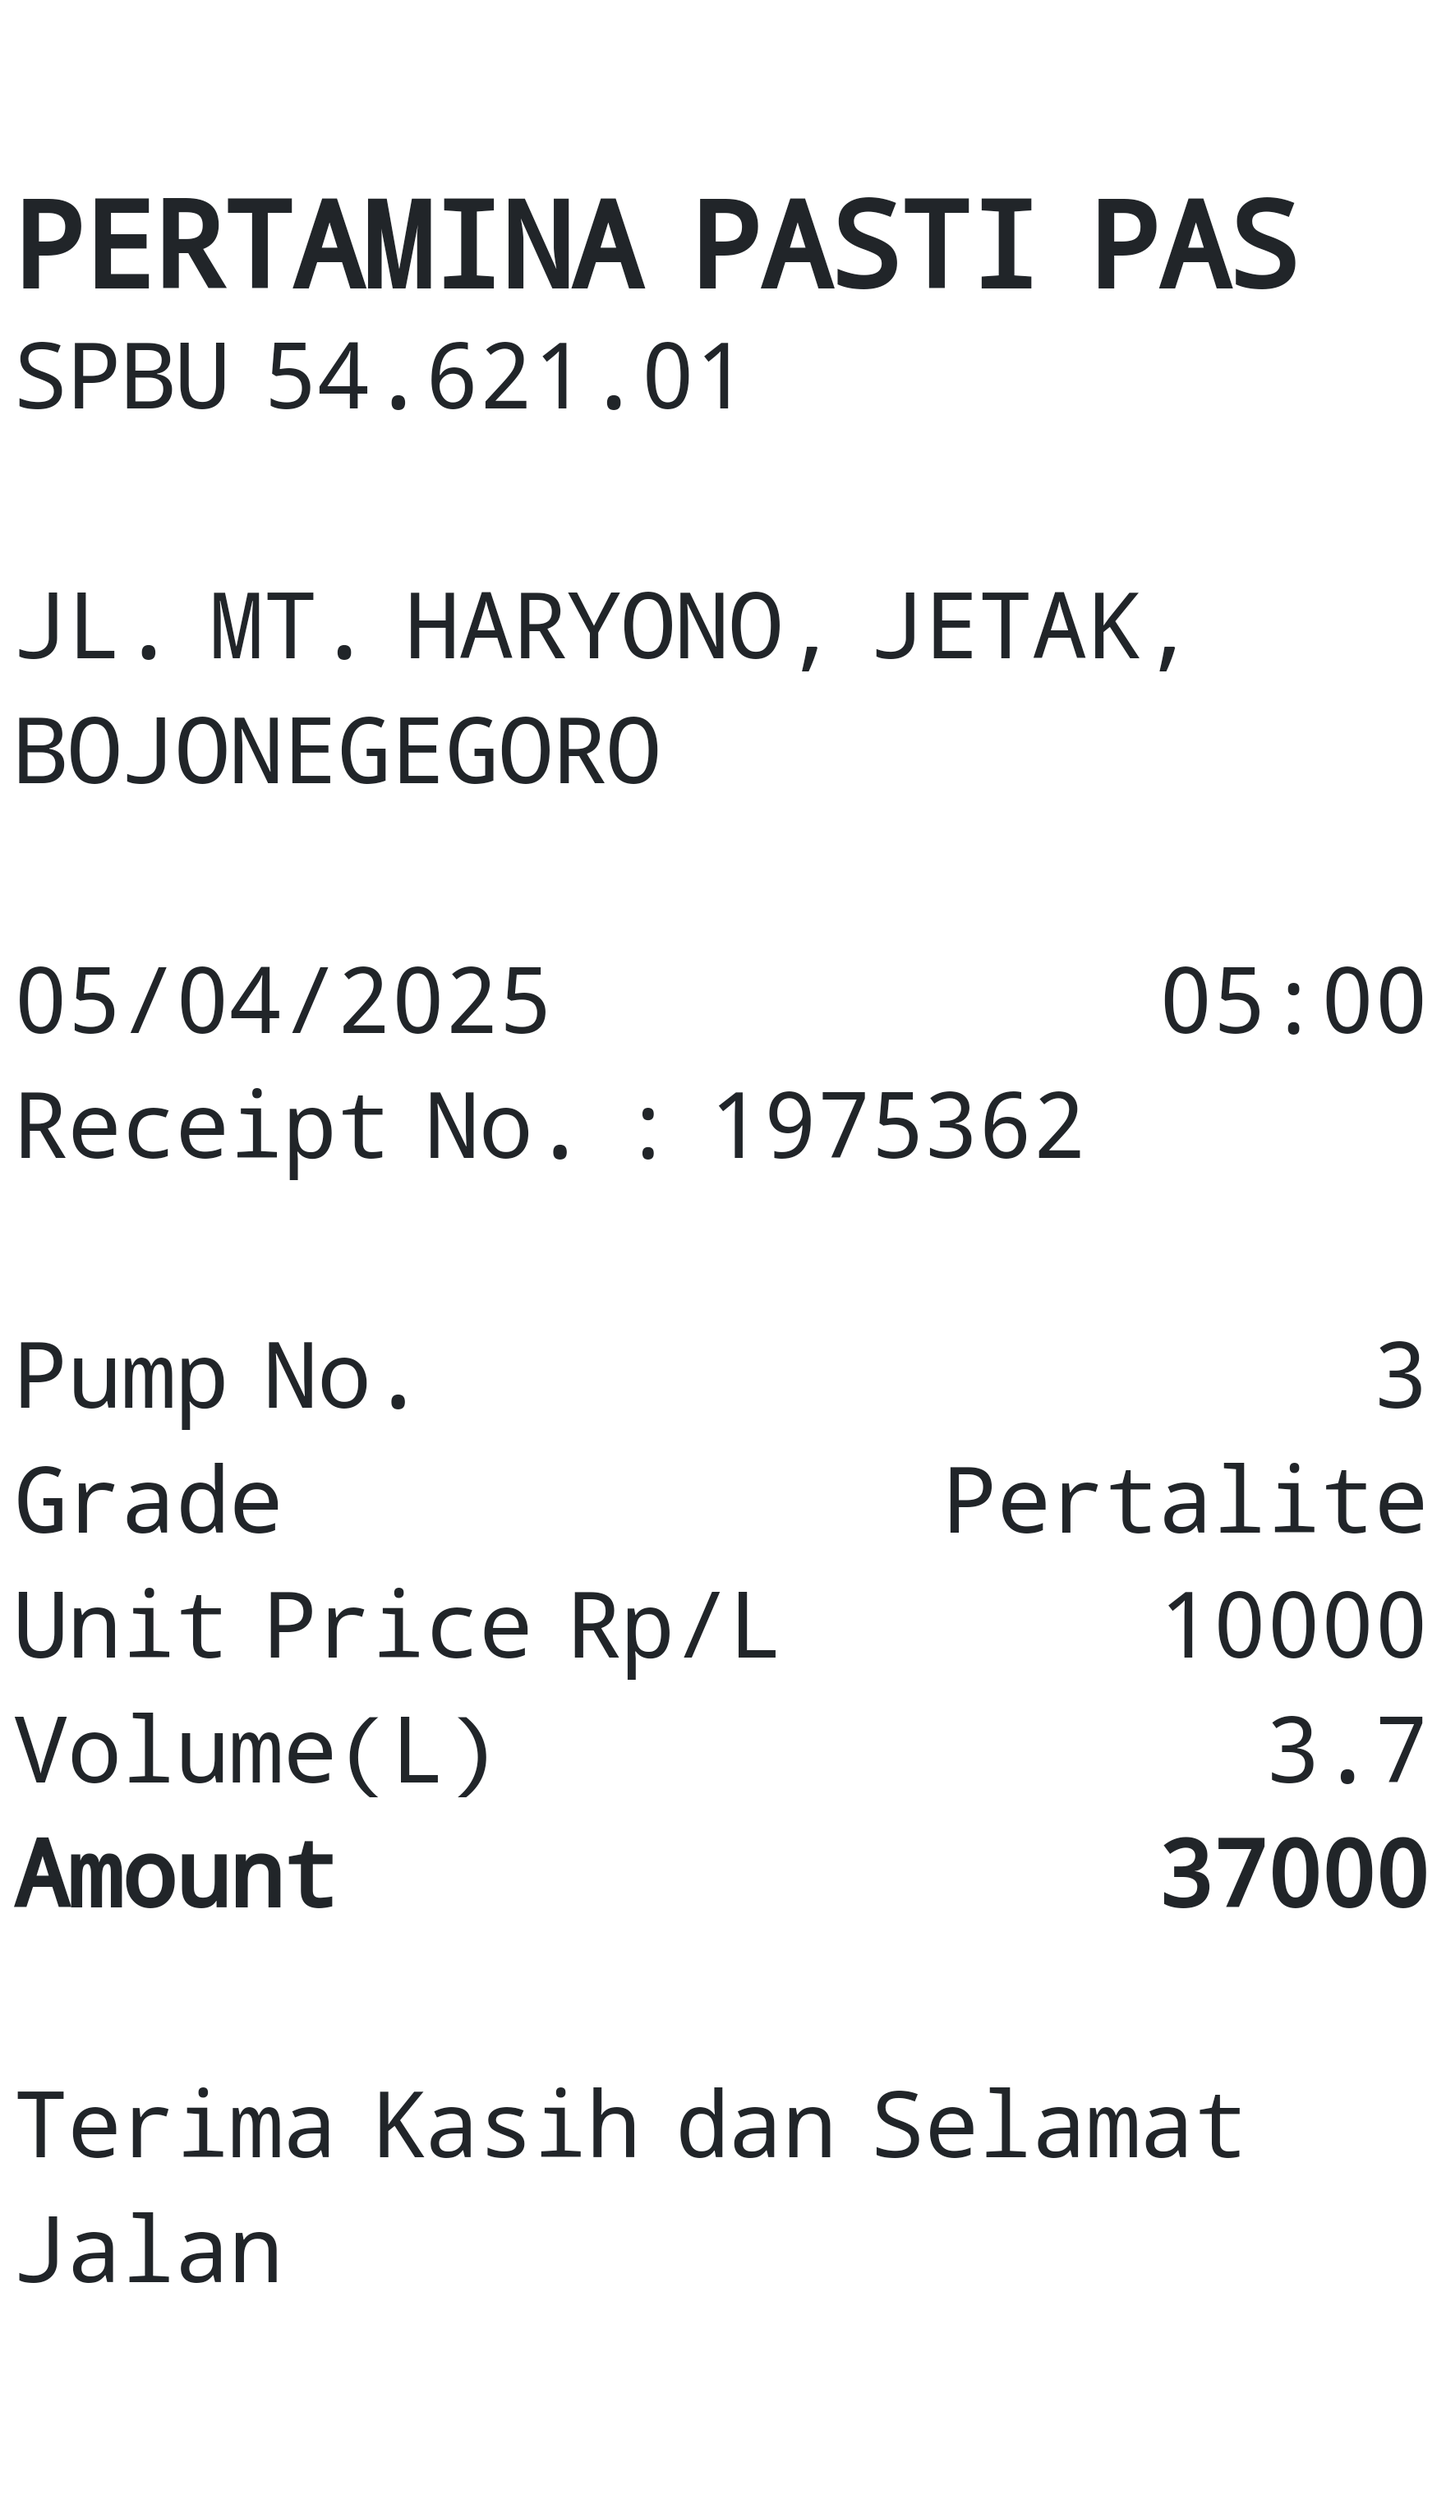
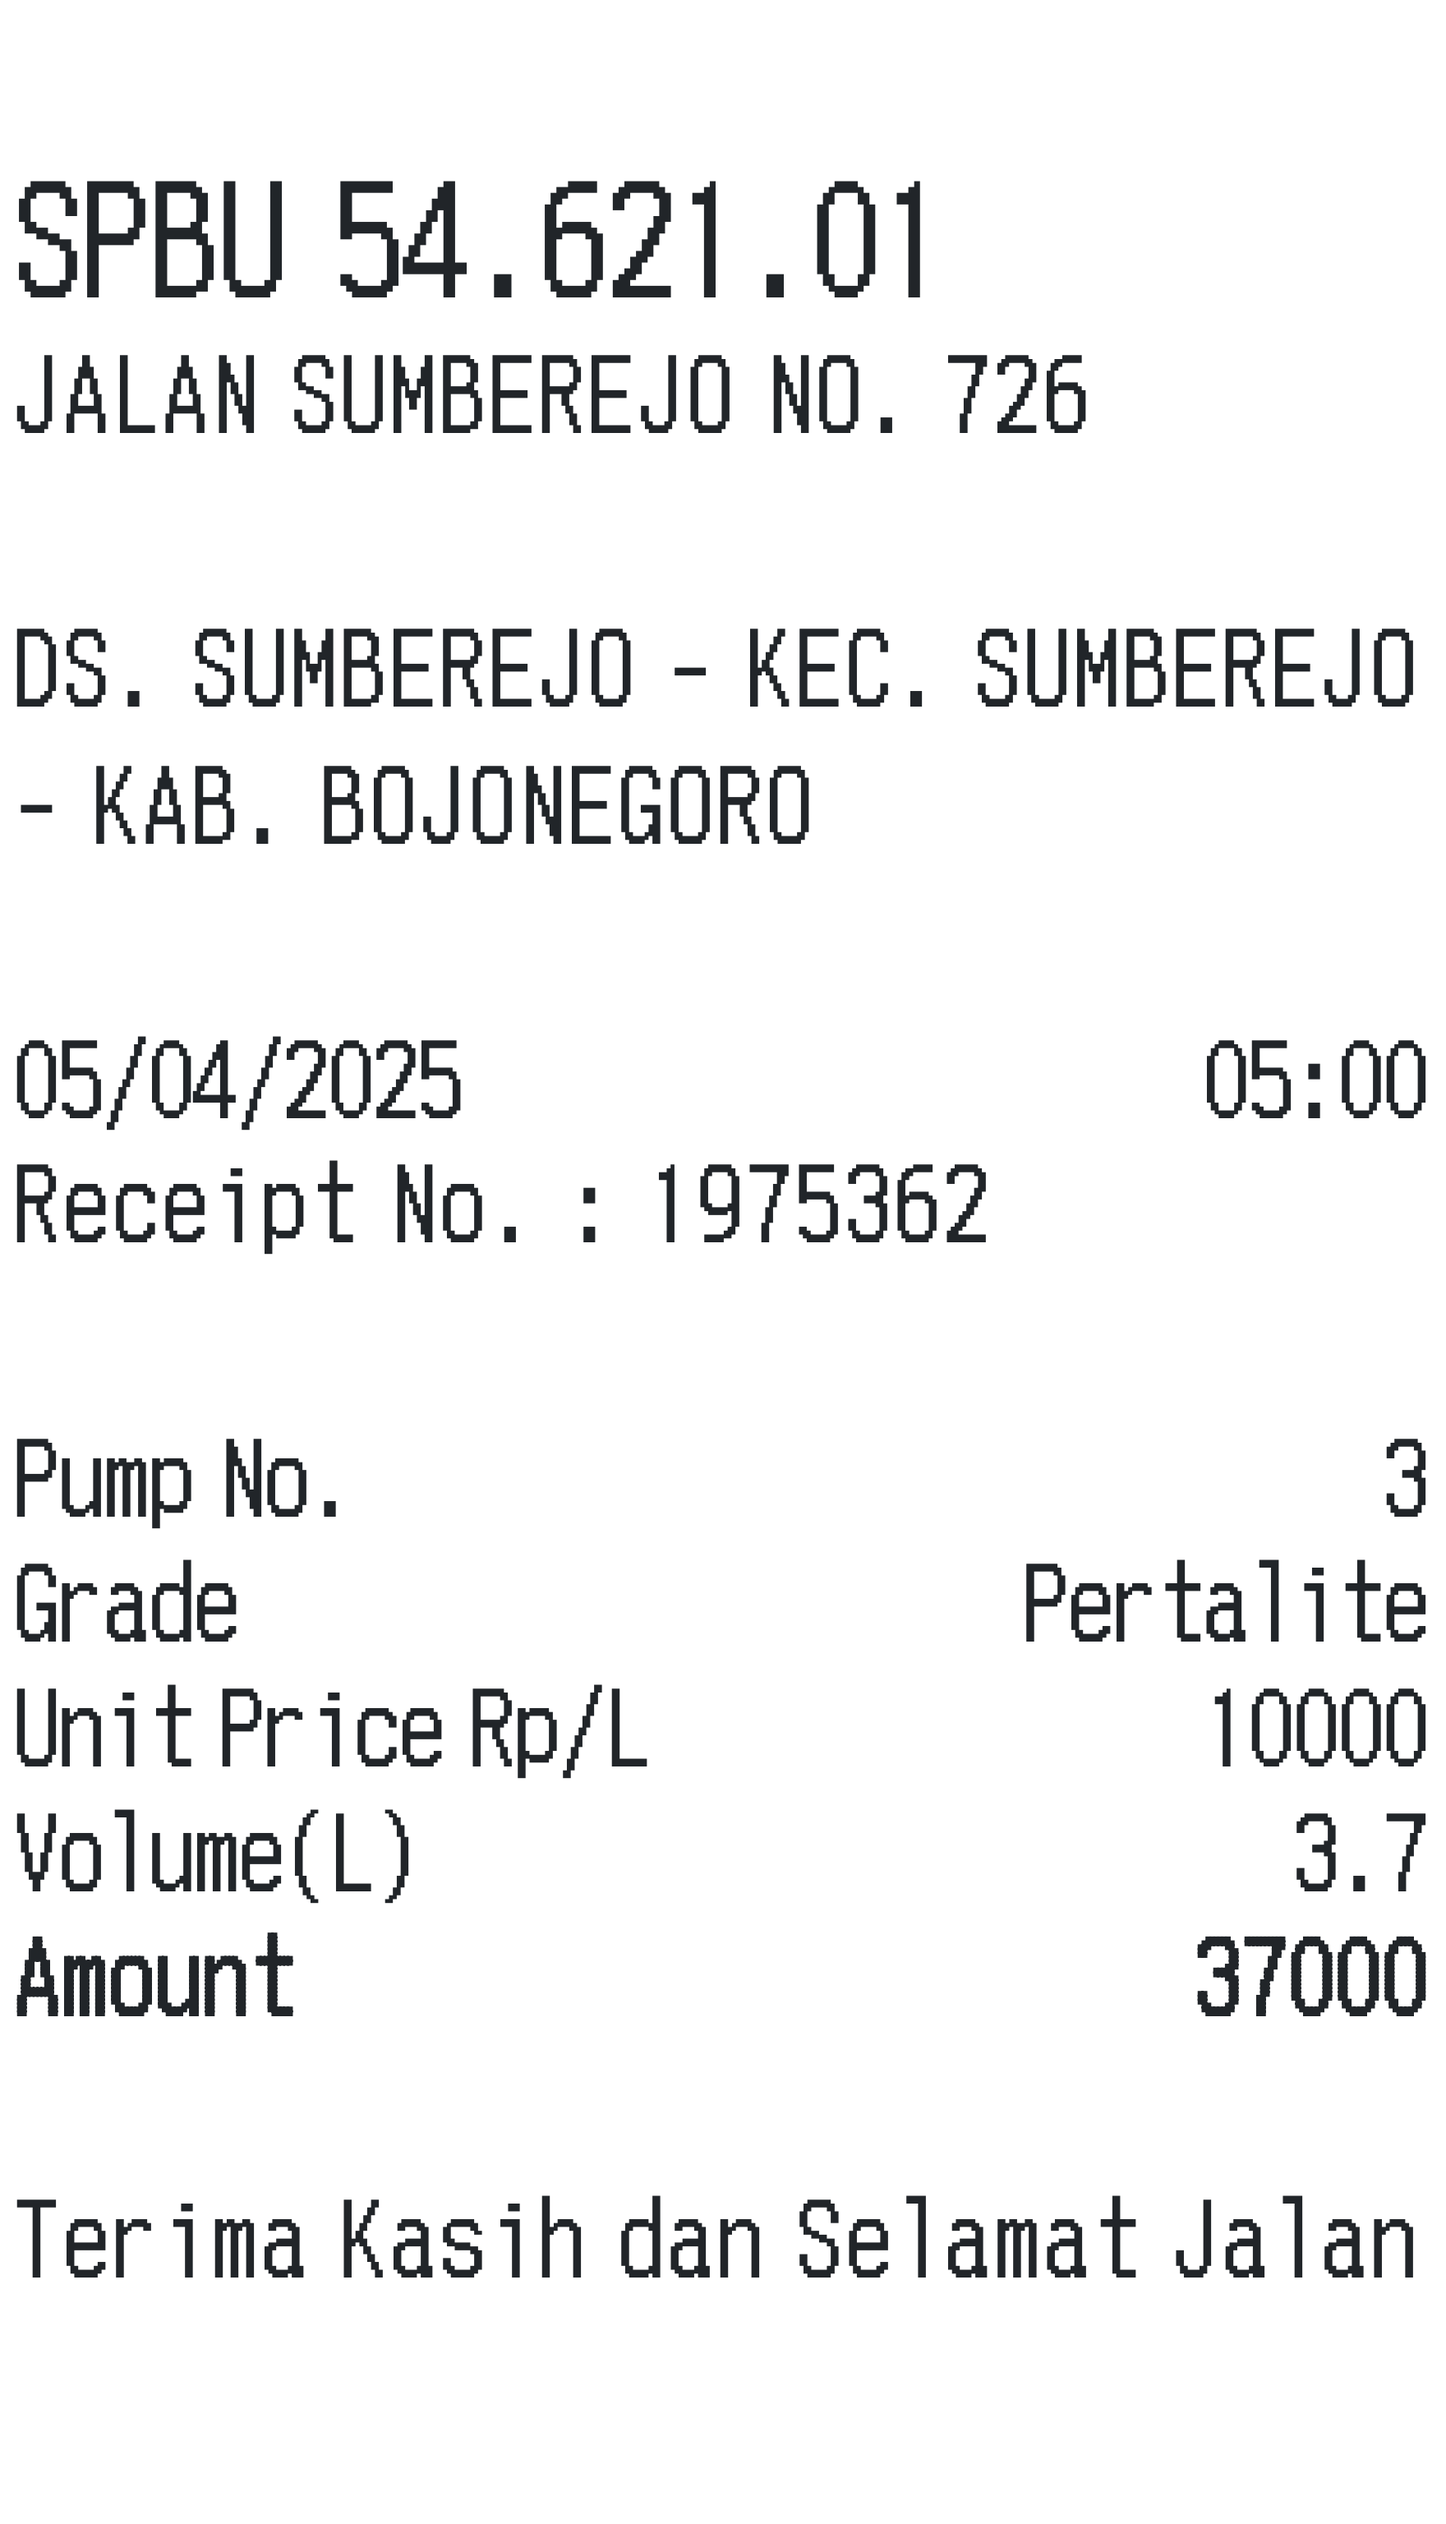
u

diff --git a/template8.html b/template8.html
@@ -1,0 +1,277 @@
+<!DOCTYPE html>
+<html lang="id">
+<head>
+  <meta charset="UTF-8" />
+  <meta name="viewport" content="width=device-width, initial-scale=1.0" />
+  <title>Fuel Receipt Generator - Minimal</title>
+  <!-- Bootstrap CSS -->
+  <link href="https://cdn.jsdelivr.net/npm/bootstrap@5.3.0/dist/css/bootstrap.min.css" rel="stylesheet" />
+  <!-- Inline CSS -->
+  <style>
+/* css/style.css */
+body {
+  background-color: #f8f9fa;
+}
+
+.card {
+  border: none;
+  box-shadow: 0 0 5px rgba(0,0,0,0.1);
+}
+
+.receipt-container {
+  margin: 0 auto;
+  padding: 2px;
+  background: #fff;
+  line-height: 19px;
+}
+
+.receipt-header {
+  text-align: left;
+}
+
+.receipt-footer {
+  text-align: left;
+}
+
+.separator {
+  border-top: 2.5px dashed black;
+  margin: 10px 0;
+}
+
+.line {
+  display: flex;
+  justify-content: space-between;
+}
+
+.input-label {
+  font-weight: 600;
+  font-size: 10px;
+}
+
+
+@font-face {
+  font-family: 'TelidonHv';
+  src: url('TelidonHv.woff') format('woff');
+}
+
+
+
+#receiptPreview {
+  width: 58mm;
+  font-family: 'TelidonHv', Sans-Serif;
+  font-weight: normal;
+  word-spacing: -3px;
+  letter-spacing: -0.2px;
+  margin-bottom: 1px;
+  padding-bottom:2em;
+  padding-top:2em;
+}
+
+#receiptPreview h1 {
+  font-size: 21px;
+  font-weight: bold;
+  margin-bottom: 1px;
+}
+
+#receiptPreview h2 {
+  font-size: 18px;
+  font-weight: bold;
+  margin-bottom: 1px;
+}
+
+#receiptPreview h3 {
+  font-size: 16px;
+  font-weight: bold;
+  margin-bottom: 1px;
+}
+
+#receiptPreview h4 {
+  font-size: 14px;
+  margin-bottom: 1px;
+}
+
+#receiptPreview h6 {
+  font-size: 12px;
+}
+  </style>
+</head>
+<body>
+  <div class="container py-3" x-data="receiptApp()">
+    <h4 class="text-center mb-3">Generator Struk Pom Bensin</h4>
+    <div class="row">
+      <!-- ==================== FORM INPUT ==================== -->
+      <div class="col-md-6">
+        <div class="card p-2 mb-3">
+          <h6 class="mb-2">Input Data</h6>
+          <!-- Nomor Outlet -->
+          
+          <div class="row">
+<div class="col-6 mb-2">
+              <label class="input-label">Nama SPBU</label>
+              <input type="text" class="form-control form-control-sm" x-model="namaSPBU" placeholder="Nama SPBU"
+              />
+            </div>
+              <div class="col-3 mb-2">
+              <label class="input-label">Nomor Outlet</label>
+              <input type="text" class="form-control form-control-sm" x-model="nomorOutlet" placeholder="Nomor Outlet" />
+            </div>
+            <div class="col-3 mb-2">
+              <label class="input-label">No. Transaksi</label>
+              <input type="number" class="form-control form-control-sm" x-model="noTransaksi" placeholder="No. Transaksi" />
+            </div>
+          </div>
+          
+          <!-- Alamat -->
+          <div class="row">
+            <div class="col-12 mb-2">
+              <label class="input-label">Alamat</label>
+              <input type="text" class="form-control form-control-sm" x-model="alamat" placeholder="Alamat" />
+            </div>
+          </div>
+          <!-- No. Transaksi -->
+
+          <!-- Waktu & Pulau/Pompa -->
+          <div class="row">
+            <div class="col-4 mb-2">
+              <label class="input-label">Waktu</label>
+              <input type="datetime-local" class="form-control form-control-sm" x-model="waktu" />
+            </div>
+            <div class="col-4 mb-2">
+              <label class="input-label">Pump</label>
+              <input type="number" class="form-control form-control-sm" x-model="pompa" placeholder="Pulau/Pompa" />
+            </div>
+            <div class="col-4 mb-2">
+              <label class="input-label">Volume (Liter)</label>
+              <input type="number" class="form-control form-control-sm" x-model.number="volume" min="0" placeholder="Volume" />
+            </div>
+          </div>
+         
+          
+          <!-- Footer -->
+          <div class="row">
+            <div class="col-12 mb-2">
+              <label class="input-label">Footer</label>
+              <input type="text" class="form-control form-control-sm" x-model="footer" placeholder="Footer" />
+            </div>
+          </div>
+          <!-- Load Config -->
+          <div class="row">
+            <div class="col-12 mb-2">
+              <label class="input-label">Load Config</label>
+              <input type="file" class="form-control form-control-sm" accept=".json" @change="uploadTemplate($event)" />
+            </div>
+          </div>
+          <!-- Tombol Save as Image & Save Template -->
+          <div class="row my-3">
+            <div class="col-6 mb-2">
+              <button class="btn btn-success btn-sm w-100"
+              
+              @click="saveAsImage()">Save as Image</button>
+            </div>
+            <div class="col-6 mb-2">
+              <button class="btn btn-primary btn-sm w-100"
+              
+              @click="downloadTemplate()">Save Template</button>
+            </div>
+          </div>
+        </div>
+      </div>
+      
+      <!-- ==================== PREVIEW STRUK (tetap seperti preview.pho) ==================== -->
+      <div class="col-md-6">
+        <!-- Start Preview Section -->
+        <h6 class="text-center mb-2">Preview Struk</h6>
+        
+        
+        
+        
+        <div class="receipt-container" id="receiptPreview">
+          <!-- Header Struk -->
+          <h1>
+            PERTAMINA PASTI PAS
+          </h1>
+          
+            <span class="ml-4">SPBU </span><span x-text="nomorOutlet ? nomorOutlet : 'Nomor Outlet'"></span>
+          
+          <br><br>
+          <span class="receipt-title" x-text="alamat || 'Alamat SPBU'"></span>
+
+          <!-- Informasi Transaksi -->
+          
+  
+          <div class="info-pembelian">
+            
+            <br>
+            
+<!-- Tampilan tanggal dan waktu -->
+  <div style="display: flex; justify-content: space-between;">
+    <div class="text-start">
+      <span x-text="formatDate(waktu)"></span>
+    </div>
+    <div class="text-end">
+      <span x-text="formatTime(waktu)"></span>
+    </div>
+
+              </div>
+            </div>
+<span>Receipt No. :</span> <span x-text="noTransaksi"></span>
+                
+            
+            <br><br>
+            <!-- Detail Pembelian -->
+            <div class="mb-1">
+              <div class="line d-flex align-items-center">
+                <div class="col-4 text-start">Pump No.</div>
+                <div class="col-auto mr-3 px-1"></div>
+                <div class="col text-end" x-text="pompa"></div>
+              </div>
+              
+              <div class="line d-flex align-items-center">
+                <div class="col-auto text-start">Grade</div>
+                <div class="col-auto mr-3 px-1"></div>
+                <div class="col text-end">Pertalite</div>
+              </div>
+              <div class="line d-flex align-items-center">
+                <div class="col-auto text-start">Unit Price Rp/L </div>
+                <div class="col-auto mr-3 px-1"></div>
+                <div class="col text-end">10000</div>
+              </div>
+              <div class="line d-flex align-items-center">
+                <div class="col-4 text-start">Volume(L)</div>
+                <div class="col-auto mr-3 px-1"></div>
+                <div class="col text-end" x-text="volume ? volume : ''"></div>
+              </div>
+              <div class="line d-flex align-items-center">
+                <div class="col-4 text-start"><b>Amount</b></div>
+                <div class="col-auto mr-3 px-1"></div>
+                <div class="col text-end fw-bold" x-html="computedTotalHarga ? formatRupiah(computedTotalHarga) : ''"></div>
+            </div>
+            <!-- Informasi Tambahan -->
+           
+              <br>
+              <!-- Footer Struk -->
+              <div class="receipt-footer" x-text="footer || 'Terima Kasih dan Selamat Jalan'"></div>
+            </div>
+          </div>
+        </div>
+      </div>
+    </div>
+  </div>
+
+  <!-- AlpineJS & html2canvas -->
+  <script src="https://cdn.jsdelivr.net/npm/alpinejs@3.12.0/dist/cdn.min.js" defer></script>
+  <script src="https://html2canvas.hertzen.com/dist/html2canvas.min.js"></script>
+  <!-- Script JS terpisah -->
+  <script src="script.js"></script>
+</body>
+<footer>
+<div style="width: 100%; text-align: center; margin: 10px 0;">
+  <a href="/" style="display: inline-flex; align-items: center; justify-content: center; padding: 12px 24px; background-color: #f0f0f0; border-radius: 8px; text-decoration: none; color: #333; font-weight: bold;">
+    <svg xmlns="http://www.w3.org/2000/svg" width="20" height="20" fill="none" stroke="currentColor" stroke-width="2" viewBox="0 0 24 24" style="margin-right: 8px;">
+      <path d="M15 18l-6-6 6-6"/>
+    </svg>
+    Back to Home
+  </a>
+</div>
+</footer>
+</html>
